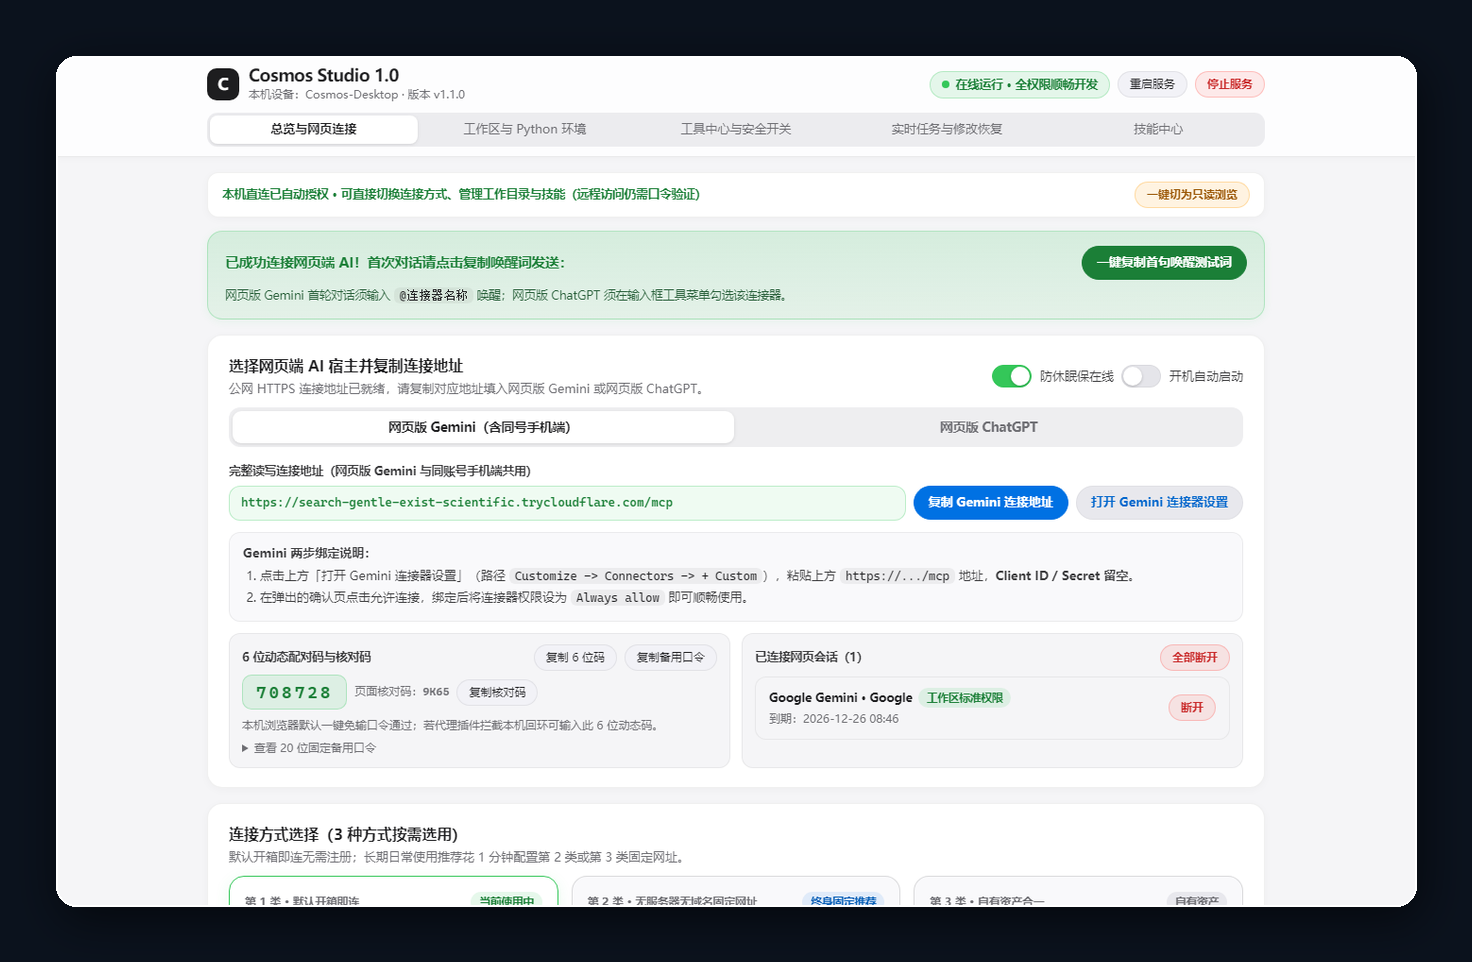
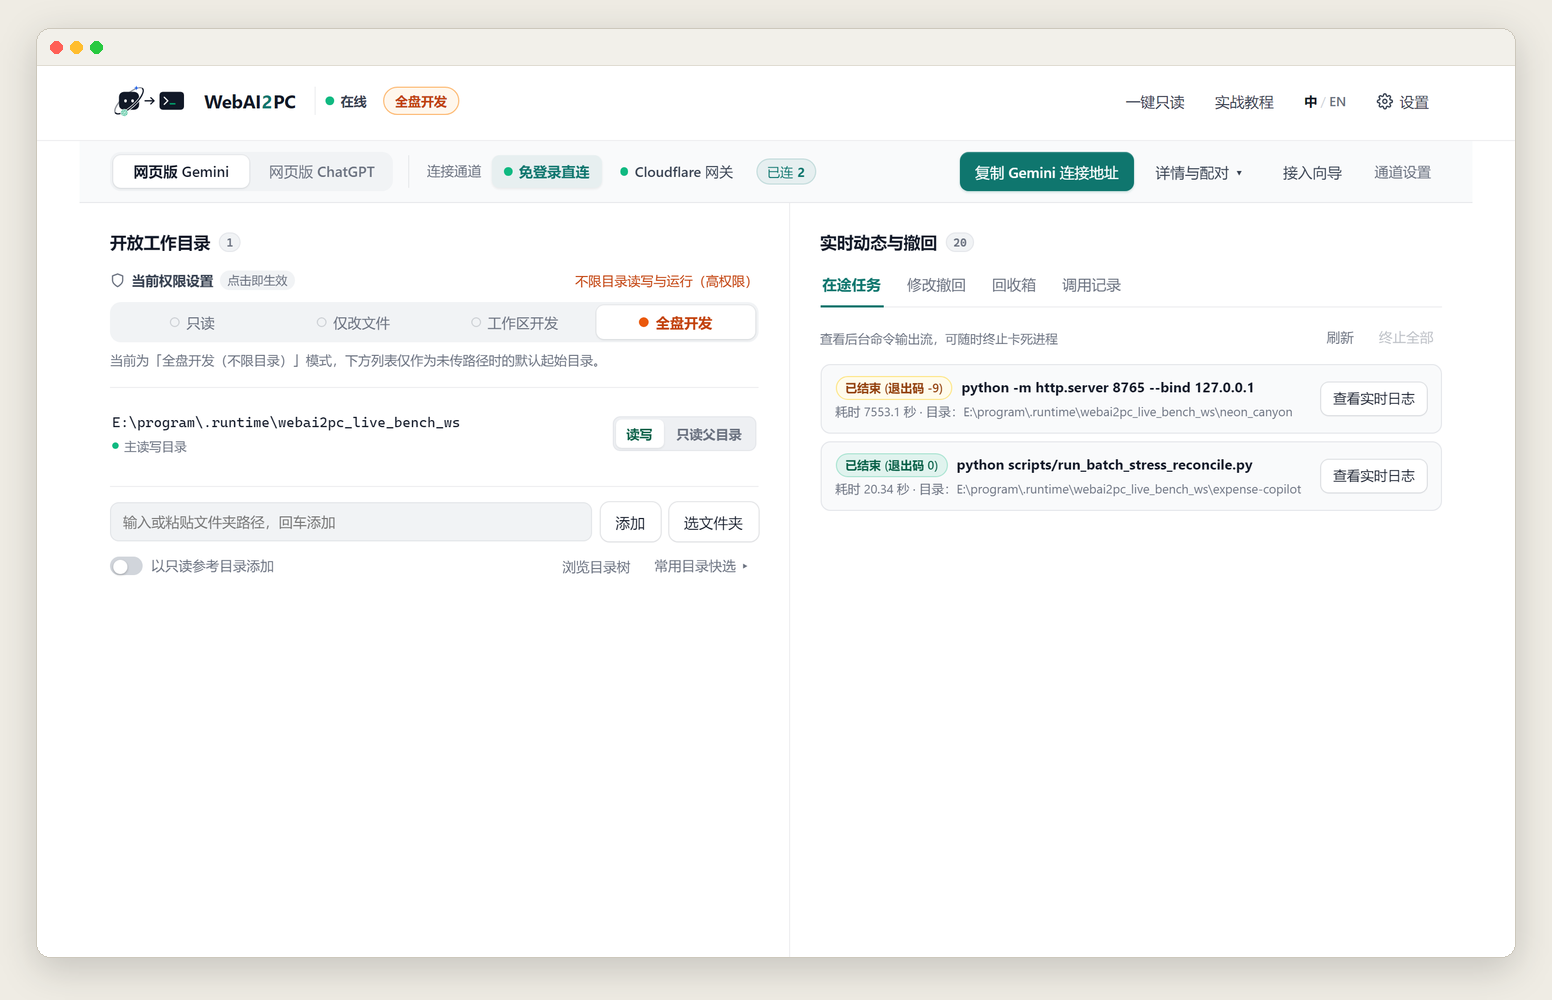
fix(studio,readme): remove misclick-prone top-bar quick-readonly button, sync new console screenshot, and update UI test

diff --git a/src/cosmos_mcp/studio/static/studio.js b/src/cosmos_mcp/studio/static/studio.js
@@ -3929,15 +3929,17 @@
       });
     });
 
-    $("quick-readonly-btn").addEventListener("click", function () {
-      var reqSeq = ++toolsSafetyReqSeq;
-      apiFetch("/api/studio/tools-safety", { method: "POST", body: { safety_mode: "readonly" } }).then(function (d) {
-        if (reqSeq !== toolsSafetyReqSeq) return;
-        if (!d.ok) return showToast(d.error || "切换失败", true);
-        renderAll(d);
-        showToast(d.message || "已切为只读浏览模式", false);
+    if ($("quick-readonly-btn")) {
+      $("quick-readonly-btn").addEventListener("click", function () {
+        var reqSeq = ++toolsSafetyReqSeq;
+        apiFetch("/api/studio/tools-safety", { method: "POST", body: { safety_mode: "readonly" } }).then(function (d) {
+          if (reqSeq !== toolsSafetyReqSeq) return;
+          if (!d.ok) return showToast(d.error || "切换失败", true);
+          renderAll(d);
+          showToast(d.message || "已切为只读浏览模式", false);
+        });
       });
-    });
+    }
 
     if ($("quick-restore-dev-btn")) {
       $("quick-restore-dev-btn").addEventListener("click", function () {

diff --git a/src/cosmos_mcp/studio/static/index.html b/src/cosmos_mcp/studio/static/index.html
@@ -168,7 +168,6 @@
 
         <div class="header-right-group">
           <div class="ws-actions header-service-btns">
-            <button type="button" class="btn btn-tonal" id="quick-readonly-btn" title="一键切入只读保护模式">一键只读</button>
             <button type="button" class="btn btn-primary" id="quick-restore-dev-btn" style="display:none;">恢复开发</button>
             <a href="/tutorials" class="btn" id="top-open-tutorials-btn" title="打开 6 大场景交互式实战教程与排障速查">实战教程</a>
             <button type="button" class="btn lang-toggle-btn" id="lang-toggle-btn" title="切换界面语言 / Switch Language" aria-label="切换语言 / Switch Language"><span class="lang-opt active" data-lang-opt="zh">中</span><span class="lang-sep">/</span><span class="lang-opt" data-lang-opt="en">EN</span></button>

diff --git a/src/cosmos_mcp/core/tutorials_catalog.py b/src/cosmos_mcp/core/tutorials_catalog.py
@@ -179,7 +179,7 @@ def _build_topic_templates(port_placeholder: str) -> Dict[str, Dict[str, Any]]:
                 "   - **第 2 步（复制 HTTPS 地址并绑定）**：在主控首页顶部连接卡选择 `网页版 Gemini` 或 `网页版 ChatGPT`（ChatGPT 首次添加插件时，网关就绪后首选点 `复制地址并打开 ChatGPT 插件页` 在已登录本机浏览器打开 `https://chatgpt.com/plugins` -> `＋ -> 添加自定义 MCP 服务器`，填 `WebAI2PC` 粘贴 `/mcp` 或 `/mcp/readonly`，授权页点 `本机一键允许连接` 并点 `Install` 安装；遇到连接或 `403` 权限问题点旁侧 `复制给 ChatGPT 接入 / 排障`；若在网页版 `Work` 云端浏览器内点 `Take over` 打开授权页则输控制台 `6` 位动态配对码），以调用 `pc_get_status` 成功作为接通标准。\n"
                 "   - **第 3 步（开启免审批与按场景唤醒）**：Gemini 在网页端连接器设置中将 `App actions` 设为 `Always allow`，回到聊天框首句输入 `@Cosmos`；ChatGPT 安装插件后同账号共享，日常改代码跑脚本切回 `Chat` 模式输入 `@WebAI2PC`（响应快且不扣 `Work / Codex` 额度），跨应用长程交付与定时任务用 `Work` 模式输入 `@WebAI2PC`。\n"
                 "2. **三个本地页面分工**：\n"
-                f"   - **主控首页**（`{base}/`，对应 `#workbench-view`）：顶部切换 `网页版 Gemini` / `网页版 ChatGPT` 并复制地址，可展开 `首次绑定步骤与唤醒词` 与 `配对与已连会话`；左下 `开放工作目录` 卡片管理目录与 `当前权限设置`（`只读` / `仅改文件` / `工作区开发` / `全盘开发`）；右下 `实时动态与撤回` 卡片查看 `在途任务`、`修改撤回`、`回收箱`、`调用记录`。顶栏右侧提供 `一键只读`、`实战教程` 与 `设置` 按钮。\n"
+                f"   - **主控首页**（`{base}/`，对应 `#workbench-view`）：顶部切换 `网页版 Gemini` / `网页版 ChatGPT` 并复制地址，可展开 `首次绑定步骤与唤醒词` 与 `配对与已连会话`；左下 `开放工作目录` 卡片管理目录与 `当前权限设置`（`只读` / `仅改文件` / `工作区开发` / `全盘开发`）；右下 `实时动态与撤回` 卡片查看 `在途任务`、`修改撤回`、`回收箱`、`调用记录`。顶栏右侧提供 `实战教程`、语言切换与 `设置` 按钮（切入只读后会出现 `恢复开发` 按钮）。\n"
                 f"   - **系统设置页**（`{base}/#settings/gateways`，对应 `#settings-view`，支持 URL Hash 直达）：左侧含 5 个分类页签：`连接与网关`（`#settings/gateways`）、`环境与系统`（`#settings/runtime`）、`工具与扩展`（`#settings/tools`）、`技能管理`（`#settings/skills`）、`外观与图标`（`#settings/appearance`）；点击左上或右上 `← 返回主控台` 回到首页。\n"
                 f"   - **交互式图文教程页**（`{base}/tutorials`）：分场景展示图文配置步骤与常见问题排查。"
             ),
@@ -231,7 +231,7 @@ def _build_topic_templates(port_placeholder: str) -> Dict[str, Dict[str, Any]]:
                 "   - 在输入框粘贴文件夹路径点 `添加`，或点击 `选文件夹` 调用系统目录选择框；也可点 `浏览目录树`（支持 `添加当前目录`、`设为主目录`、`新建` 子文件夹）或展开 `常用目录快选 ▸` 一键添加。\n"
                 "   - **父只读 + 子读写分层**：添加前若打开 `以只读参考目录添加` 开关（或在已添加目录行切换读写/只读状态），该目录仅允许读取与检索；系统按最长路径前缀匹配权限，因此可将大仓库父目录设为只读参考，同时将其下某个子目录单独设为主读写目录。\n"
                 "2. **主控首页左侧 `当前权限设置`（4 档单选，点击即生效）**：\n"
-                "   - **`只读`（`L1`）**：仅允许读取文件、列目录与代码搜索，禁止修改任何文件或运行命令（同时保护 `.env` 等敏感凭据文件，仅放行 `.env.example` / `.env.template`）；顶栏右侧也提供 `一键只读` 应急按钮。\n"
+                "   - **`只读`（`L1`）**：仅允许读取文件、列目录与代码搜索，禁止修改任何文件或运行命令（同时保护 `.env` 等敏感凭据文件，仅放行 `.env.example` / `.env.template`）；可在主控台「当前权限设置」条或系统托盘右键随时切入只读。\n"
                 "   - **`仅改文件`（`L2`）**：允许在开放工作目录内读取和修改文件，禁止执行终端命令与脚本。\n"
                 "   - **`工作区开发`（`L3`，默认推荐）**：允许在开放工作目录内读写代码与无窗口运行命令/Python 脚本，越界路径与系统凭据目录自动拦截。\n"
                 "   - **`全盘开发`（`L4`）**：允许跨目录读写文件与运行命令（本机服务自身密钥目录 `secrets/state/config` 仍保持隔离保护，文件清理依然进入安全回收箱）。\n"

diff --git a/tests/test_multigw_studio_ui.py b/tests/test_multigw_studio_ui.py
@@ -1220,11 +1220,18 @@ def test_chatgpt_assist_connect_copy_gateway_ready_gate_and_zero_secrets(tmp_pat
                     assert secret_val not in full_prompt
                     assert secret_val not in ro_prompt
 
-            # 2c) Directly-visible showcase strip copies pure task prompt (no hardcoded connector name), shows @ toast, and expands on click
+            # 2c) Onboarding Step 4 showcase copies pure task prompt (no hardcoded connector name), shows @ toast, and expands on click
+            # Also verify duplicate bottom showcase strip and misclick-prone top-bar quick-readonly-btn are removed
             driver.evaluate(
                 """() => {
                     window.__copiedHistory = [];
-                    document.getElementById('copy-showcase-blackhole-btn').click();
+                    if (document.getElementById('wb-try-showcase-strip')) {
+                        throw new Error('Duplicate showcase strip should be removed');
+                    }
+                    if (document.getElementById('quick-readonly-btn')) {
+                        throw new Error('Top-bar quick-readonly-btn should be removed to prevent misclicks');
+                    }
+                    document.getElementById('ob-copy-showcase-blackhole-btn').click();
                 }"""
             )
             pure_showcase = driver.wait_until(
@@ -1240,8 +1247,8 @@ def test_chatgpt_assist_connect_copy_gateway_ready_gate_and_zero_secrets(tmp_pat
             # Preview is hidden by default and expands only when clicking 查看全文
             preview_states = driver.evaluate(
                 """() => {
-                    const pre = document.querySelector('[data-showcase-preview="blackhole"]');
-                    const btn = document.querySelector('[data-toggle-showcase-prompt="blackhole"]');
+                    const pre = document.querySelector('[data-ob-showcase-preview="blackhole"]');
+                    const btn = document.querySelector('[data-ob-toggle-showcase="blackhole"]');
                     const hiddenBefore = pre ? pre.hasAttribute('hidden') : null;
                     if (btn) btn.click();
                     const hiddenAfter = pre ? pre.hasAttribute('hidden') : null;

diff --git a/docs/en/AI_SETUP_GUIDE.md b/docs/en/AI_SETUP_GUIDE.md
@@ -72,7 +72,7 @@ If the user wants a free, serverless, permanently fixed HTTPS URL (or wants to b
 In the left column "Open Workspace Directories" card on the local console home page, users can adjust open folders and permission tiers live (takes effect immediately, no restart required):
 
 1. **4 Security Tiers**:
-   - **`Read-Only` (`L1`)**: Allows reading files, searching code, and inspecting built-in skills only; blocks all file writes and command execution. The top-right bar also provides a `One-Click Read-Only` emergency button.
+   - **`Read-Only` (`L1`)**: Allows reading files, searching code, and inspecting built-in skills only; blocks all file writes and command execution. Switch to Read-Only anytime from the console's Current Permissions bar or the system tray menu.
    - **`Edit-Only` (`L2`)**: Allows reading and editing code plus `.docx`/`.xlsx` files inside writable workspaces; blocks terminal commands, Python scripts, and peripheral packs.
    - **`Workspace Dev` (`L3`, Recommended Default)**: Allows reading/writing files, moving files to recoverable trash, and running windowless commands/Python inside open writable workspaces; read-only reference directories remain strictly read-only.
    - **`Full-Disk Dev` (`L4`)**: Allows reading, writing, and running commands across any path on the machine while keeping sensitive credential directories isolated and preserving pre-edit snapshots and recoverable trash.

diff --git a/docs/AI_SETUP_GUIDE.md b/docs/AI_SETUP_GUIDE.md
@@ -82,7 +82,7 @@
 在本地控制台主控首页左栏「开放工作目录」卡片中，用户可以随时调整开放范围与权限档位（点击即生效，无需重启）：
 
 1. **4 档安全权限说明**：
-   - **`只读`（`L1`）**：仅允许读取文件、检索代码与查阅内置技能，禁止修改任何文件或执行命令。顶栏右侧也提供 `一键只读` 按钮供随时应急切换。
+   - **`只读`（`L1`）**：仅允许读取文件、检索代码与查阅内置技能，禁止修改任何文件或执行命令。在主控台「当前权限设置」条或系统托盘右键可随时切入只读。
    - **`仅改文件`（`L2`）**：允许在可读写工作目录内读取和修改代码及 `.docx` / `.xlsx` 文档，禁止执行终端命令、Python 脚本和外设扩展包。
    - **`工作区开发`（`L3`，默认推荐）**：允许在已开放的可读写工作目录内读写文件、移入安全回收箱、后台无窗口执行命令与 Python 脚本；只读参考目录内仅允许读取。
    - **`全盘开发`（`L4`）**：允许跨本机任意路径读写与运行命令，同时保留系统敏感密钥目录隔离、写前快照与安全回收箱保护。
